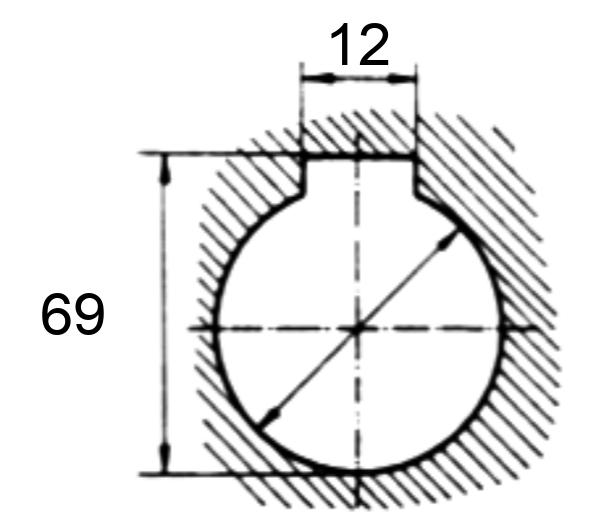
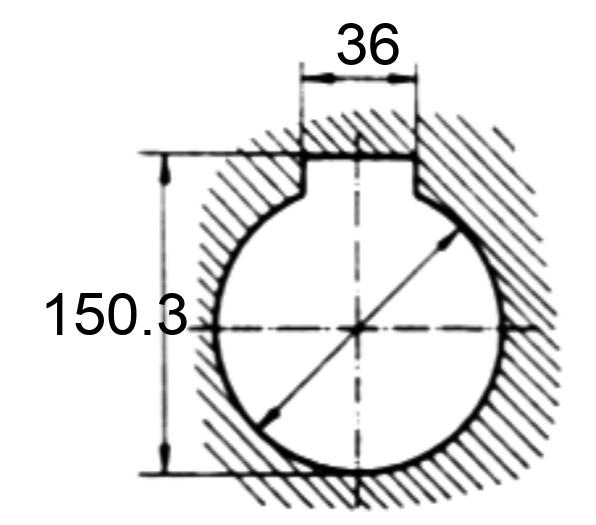
agrego achaveteros

Changed region(s): [[0.0604, 0.5486, 0.3322, 0.64], [0.5436, 0.0305, 0.6644, 0.1219]]

diff --git a/templates/cosas.html b/templates/cosas.html
@@ -30,7 +30,7 @@
 	                </div>
 		</div>
 		<div id="contenedor_imagen"class="col-6">
-			<img id="imagen_cha" src= {{ url_for('static', filename="chli.jpg") }} style="max-width: 100%">
+			<img id="imagen_cha" src= {{ url_for('static', filename="chli.jpg") }} style="max-width: 75%">
 		</div>
 	</div>
 </div>

diff --git a/aplication.py b/aplication.py
@@ -71,17 +71,56 @@ def escribir(seniores, direc, transp, lugar, cui, iba, remitos, dia, mes, anio, 
         draw.text((628, 465),"x", font=font22, fill="black")
     image.save(f'{directorio}/static/Remito{remit}.jpg')
 
+
+def calcular_chavetero_interior(diametro):
+    diametro = float(diametro)
+    if diametro > 9 and diametro < 13:
+        return [str(diametro + 1.7), "4"]
+    elif diametro > 12 and diametro < 18:
+        return [str(diametro + 2.2), "5"]
+    elif diametro > 17 and diametro < 23:
+        return [str(diametro + 2.7), "6"]
+    elif diametro > 22 and diametro < 31:
+        return [str(diametro + 3.2), "8"]
+    elif diametro > 30 and diametro < 39:
+        return [str(diametro + 3.7), "10"]
+    elif diametro > 38 and diametro < 45:
+        return [str(diametro + 3.7), "12"]
+    elif diametro > 44 and diametro < 51:
+        return [str(diametro + 4.2), "14"]
+    elif diametro > 50 and diametro < 59:
+        return [str(diametro + 5.2), "16"]
+    elif diametro > 58 and diametro < 69:
+        return [str(diametro + 5.3), "18"]
+    elif diametro > 68 and diametro < 79:
+        return [str(diametro + 6.3), "20"]
+    elif diametro > 78 and diametro < 93:
+        return [str(diametro + 7.3), "24"]
+    elif diametro > 92 and diametro < 111:
+        return [str(diametro + 8.3), "28"]
+    elif diametro > 110 and diametro < 131:
+        return [str(diametro + 9.3), "32"]
+    elif diametro > 130 and diametro < 151:
+        return [str(diametro + 10.3), "36"]
+    elif diametro > 150 and diametro < 171:
+        return [str(diametro + 11.3), "40"]
+    elif diametro > 180 and diametro < 201:
+        return [str(diametro + 12.3), "45"]
+    elif diametro > 200 and diametro < 231:
+        return [str(diametro + 14.3), "50"]
+    else:
+        return ["x","x"]
+
 def escribir_chavetero(diametro, tipo):
-    print("entro a la funcion escribir")
-    print("diametro:", diametro)
-    print("tipo:", tipo)
-    image = Image.open(f'{directorio}/static/chli.jpg')
-    draw = ImageDraw.Draw(image)
-    font24 = ImageFont.truetype(f'{directorio}/arial.ttf', 60)
-    draw.text((40, 280),diametro, font=font24, fill="black")
-    draw.text((325, 10),"12", font=font24, fill="black")
-    image = image.convert("RGB")
-    image.save(f'{directorio}/static/imagen_chavetero.jpg')
+    if tipo == "interior":
+        result_chavetero = calcular_chavetero_interior(diametro)
+        image = Image.open(f'{directorio}/static/chli.jpg')
+        draw = ImageDraw.Draw(image)
+        font24 = ImageFont.truetype(f'{directorio}/arial.ttf', 60)
+        draw.text((40, 280),result_chavetero[0], font=font24, fill="black")
+        draw.text((335, 10),result_chavetero[1], font=font24, fill="black")
+        image = image.convert("RGB")
+        image.save(f'{directorio}/static/imagen_chavetero.jpg')
 
 class User(UserMixin):
     def __init__(self, id):
